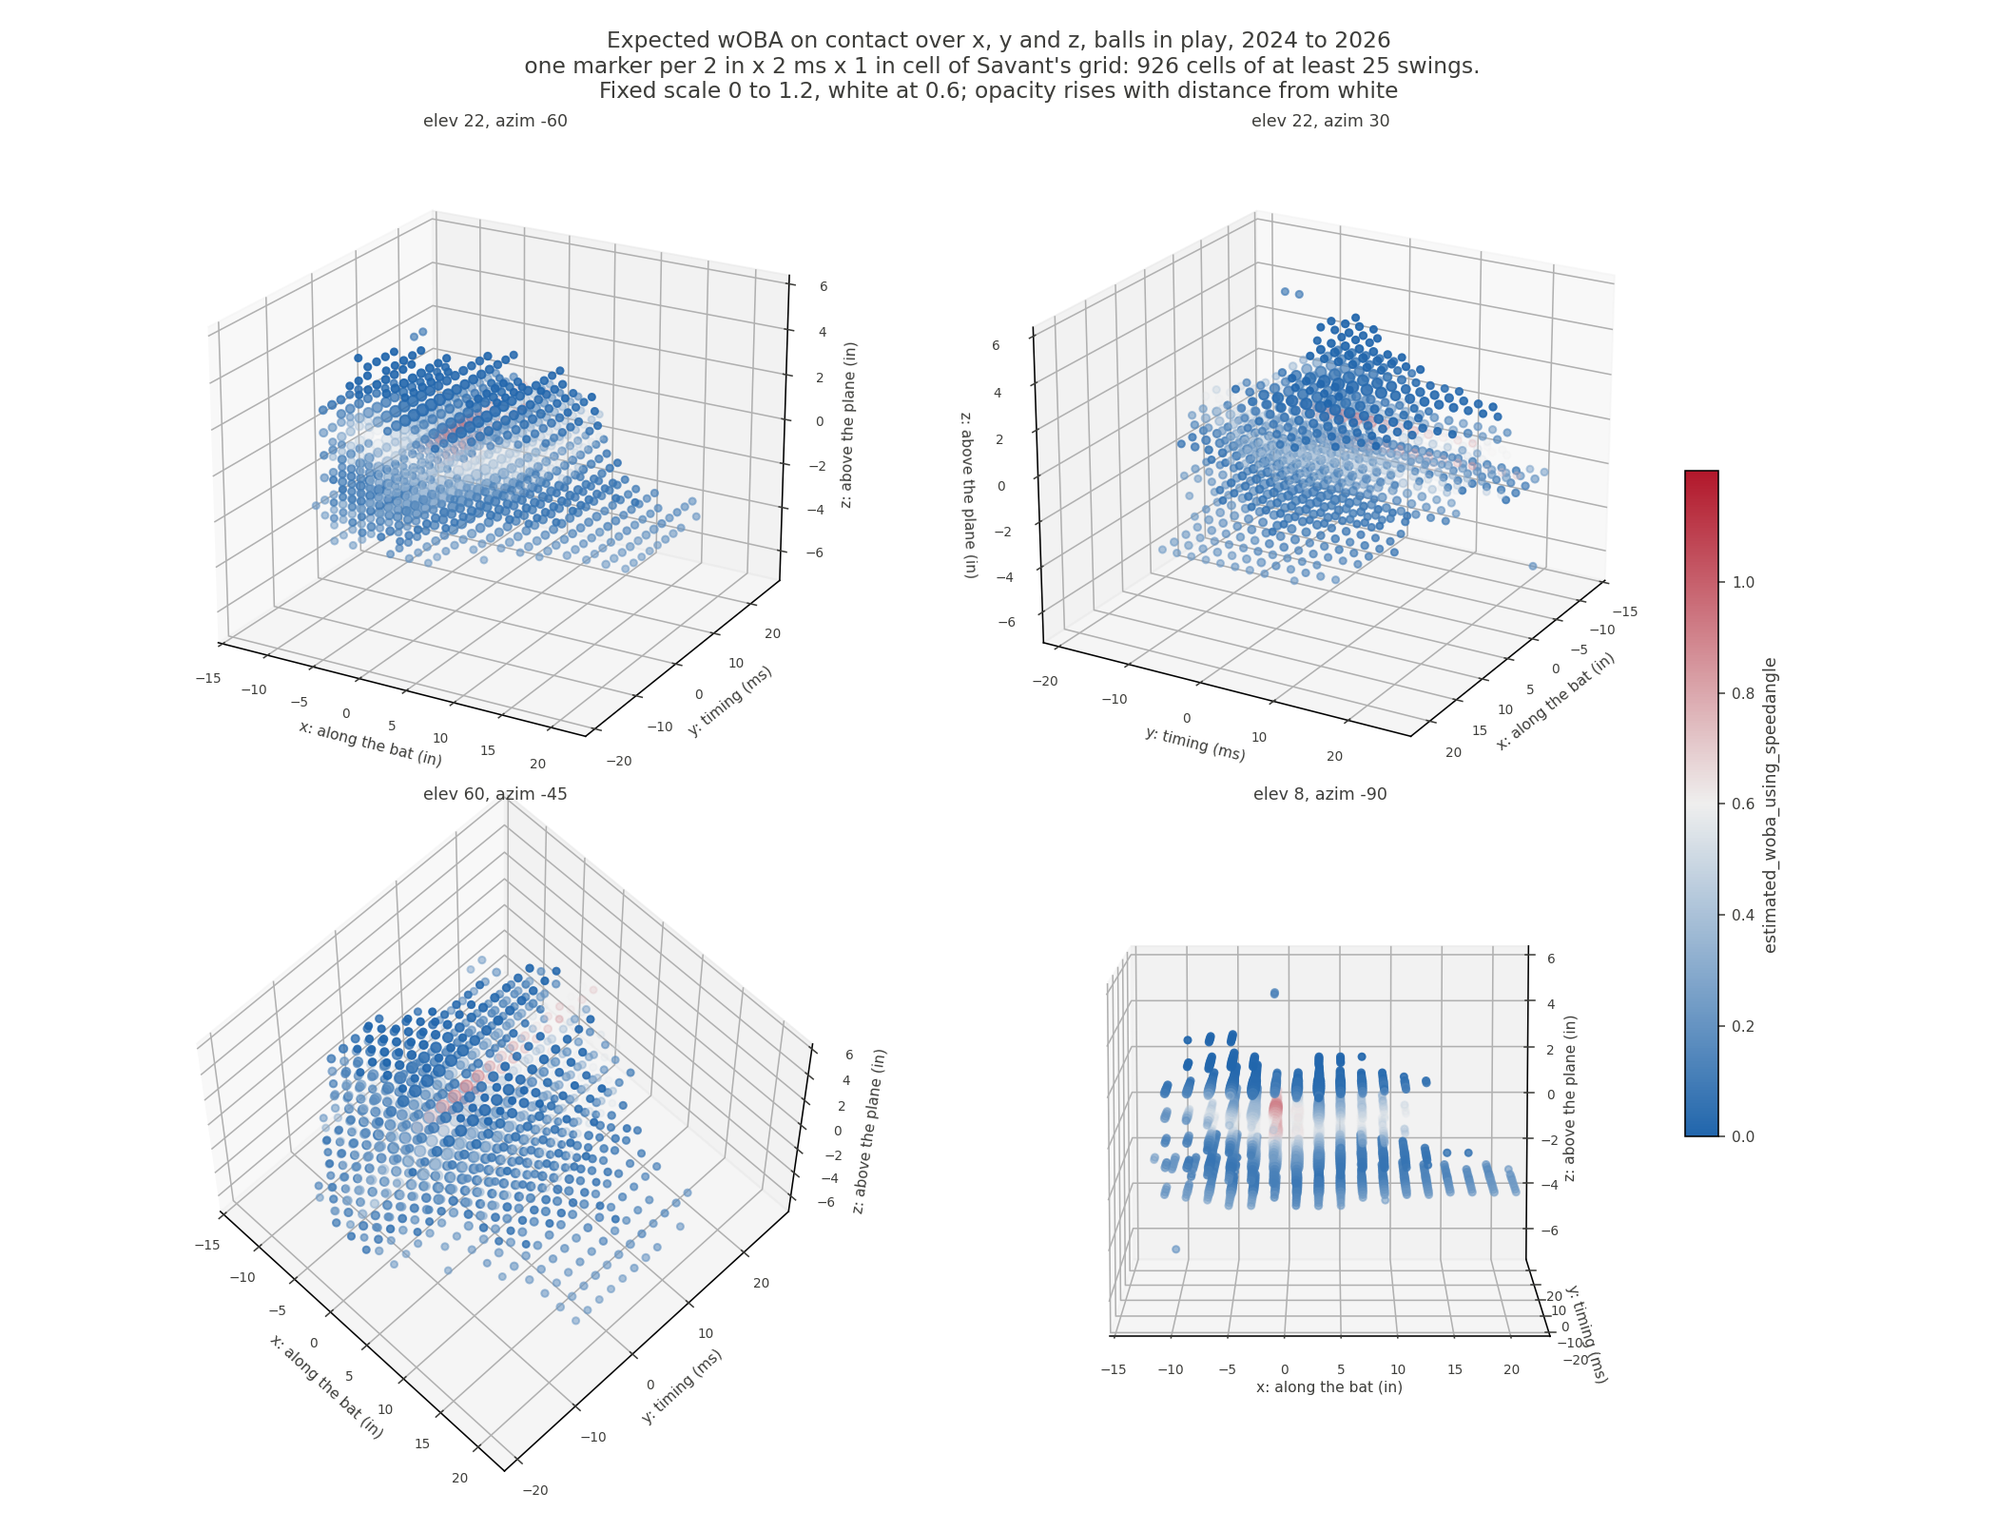
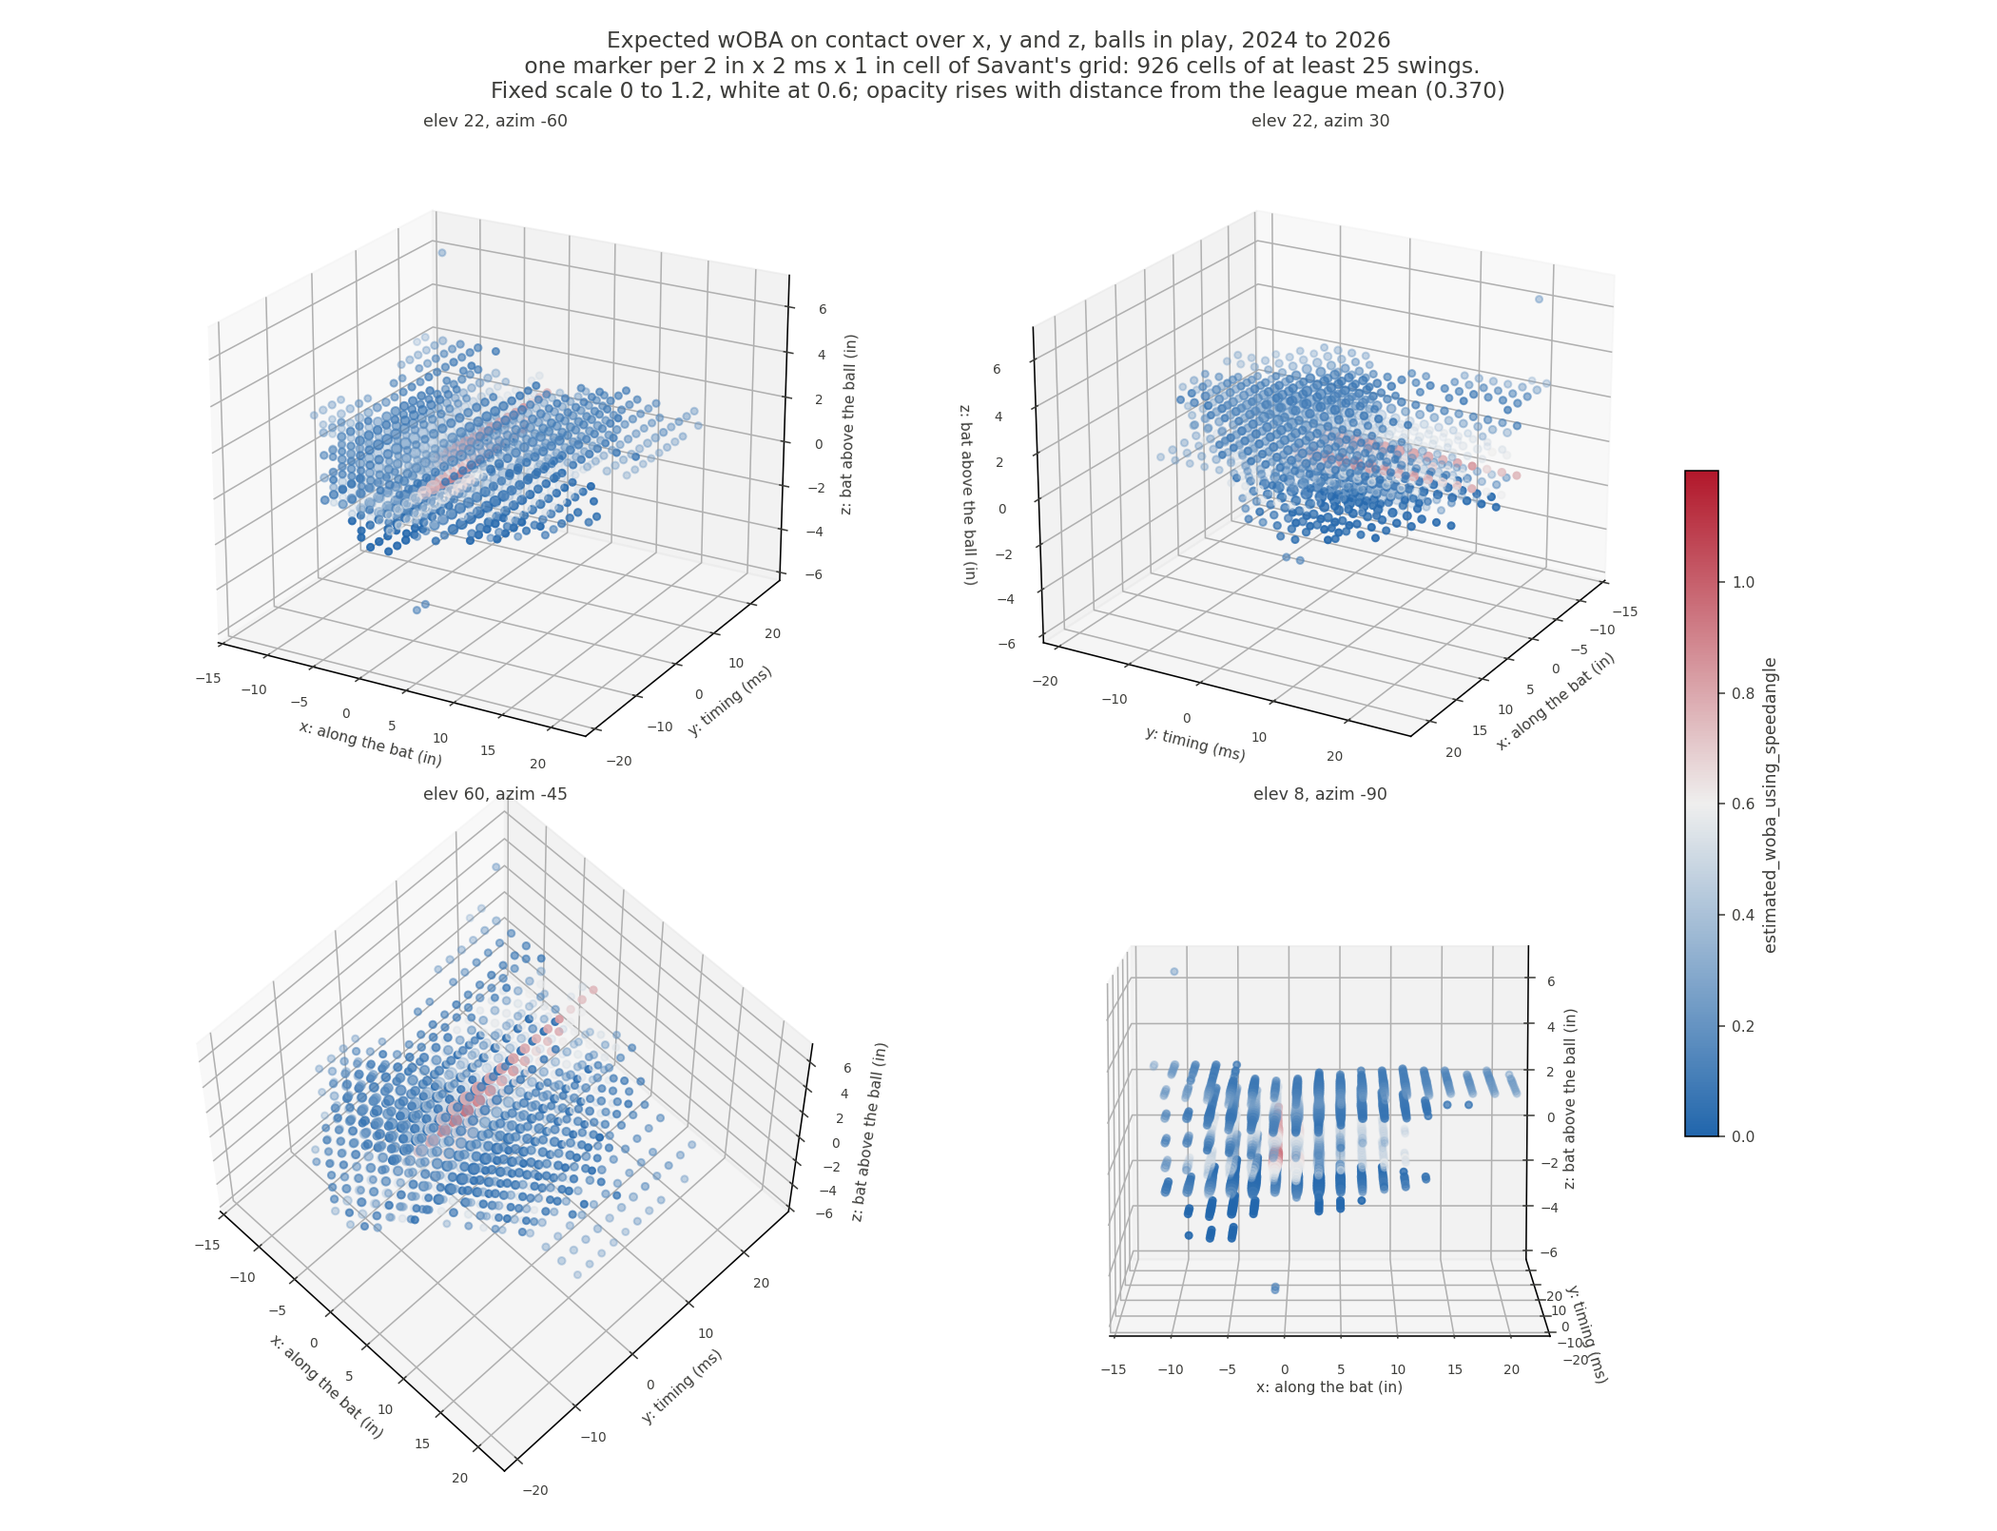
Draw z as the bat above the ball, so "over" is positive
Savant stores the BALL's height above the swing plane, so their "over" is
negative: avg_z_over = -3.78 and avg_z_under = +2.99 on the 2025 league
leaderboard, and every one of their per-swing rows labelled Over carries a
negative value under both batter hands. The number described the ball while the
label described the bat.

The flip applies when drawing only. Reconstruction, calibration and every
comparison against Savant stay on Savant's sign, so a tail row's raw value never
has to be negated to be checked. After the flip, over draws at +3.79 with share
0.1397 against Savant's published 0.1378.

x needs no flip: tied up is negative for 100 percent of Savant's tail rows under
both hands, because it measures handle against tip along the bat.

Also fixes an opacity inversion: the 3D fade was anchored on the fixed scale's
white (0.600) rather than the data's own centre (0.370), which made the good
ridge the faintest thing in the figure. The fade function now owns its anchor
and takes no anchor argument.

107 tests pass, 7 skip without the cached pulls.

diff --git a/cp_lib/plots.py b/cp_lib/plots.py
@@ -22,8 +22,24 @@ from .calibrate import BINS, to_bin  # noqa: E402
 AXIS_LABEL = {
     "x": "along the bat (in): tied up  |  centered  |  flail",
     "y": "timing (ms): late  |  on time  |  early",
-    "z": "above the swing plane (in): over  |  lined up  |  under",
+    # Every figure draws z as the BAT's height above the ball, so "over" is
+    # positive, which is the way round Jeremy reads it. Savant's stored field
+    # is the opposite sign: it is the BALL's height above the swing plane, and
+    # their own leaderboard publishes avg_z_over = -3.78, avg_z_under = +2.99.
+    # See DISPLAY_SIGN.
+    "z": "bat above the ball (in): under  |  lined up  |  over",
 }
+
+# Applied at the drawing boundary only. Everything upstream -- reconstruction,
+# calibration, and every comparison against Savant -- stays on Savant's own
+# sign, so a tail row's raw delta never has to be negated to be checked. Both
+# thresholds are symmetric, so nothing else moves.
+DISPLAY_SIGN = {"x": 1.0, "y": 1.0, "z": -1.0}
+
+
+def to_display(axis: str, values):
+    """Savant's stored sign turned into the sign the figures are drawn in."""
+    return np.asarray(values, float) * DISPLAY_SIGN[axis]
 THRESH = {"x": 4.0, "y": 7.0, "z": 2.0}
 NEG, MID, POS = "#b2182b", "#efefee", "#2166ac"
 # Savant's polarity: cold blue at the bottom of the scale, hot red at the top.
@@ -55,8 +71,8 @@ def _dress(ax):
 
 def _grid(cal, df, axes, value, min_n):
     a, b = axes
-    t = pd.DataFrame({"ba": to_bin(a, cal[f"{a}_cal"].to_numpy(float)),
-                      "bb": to_bin(b, cal[f"{b}_cal"].to_numpy(float)),
+    t = pd.DataFrame({"ba": to_display(a, to_bin(a, cal[f"{a}_cal"].to_numpy(float))),
+                      "bb": to_display(b, to_bin(b, cal[f"{b}_cal"].to_numpy(float))),
                       "v": df[value].to_numpy(float)}).dropna()
     if t.empty:
         return pd.DataFrame()
@@ -204,6 +220,22 @@ def _diverging_limits(vals, vcenter=0.0, weights=None, keep=1.0):
     return centre, centre - lim, centre + lim
 
 
+def _fade(values, weights=None, keep=0.98, floor=0.10, span=0.80):
+    """Alpha per cell: the ordinary fades out, the unusual stays.
+
+    The anchor is NOT a parameter, deliberately. It is always the data's own
+    weighted centre, so no caller can hand it a fixed scale's white. Passing
+    xwOBA's white (0.600) instead of its league mean (0.370) made the good
+    ridge the faintest thing in the figure and the ordinary shell the most
+    opaque, which is this function's purpose exactly inverted.
+    """
+    v = np.asarray(values, float)
+    centre = float(np.average(v, weights=weights) if weights is not None else v.mean())
+    seen = float(np.quantile(np.abs(v - centre), keep)) or 0.1
+    dist = np.clip(np.abs(v - centre) / seen, 0.0, 1.0)
+    return floor + span * dist ** 1.1, centre
+
+
 def _scale_for(value, vals, vcenter=0.0, weights=None, keep=1.0):
     """The colour limits for `value`: its fixed scale when it has one.
 
@@ -250,8 +282,8 @@ def hexbin(cal, df, axes=("x", "y"), value="delta_run_exp", min_n=50, title=None
     a, b = axes
     ax = ax or plt.gca()
     _dress(ax)
-    x = cal[f"{a}_cal"].to_numpy(float)
-    y = cal[f"{b}_cal"].to_numpy(float)
+    x = to_display(a, cal[f"{a}_cal"].to_numpy(float))
+    y = to_display(b, cal[f"{b}_cal"].to_numpy(float))
     c = df[value].to_numpy(float)
     ok = np.isfinite(x) & np.isfinite(y) & np.isfinite(c)
     ex, ey = _bulk_extent(x[ok], a), _bulk_extent(y[ok], b)
@@ -309,9 +341,9 @@ def cells3d(cal, df, value="estimated_woba_using_speedangle", min_n=25):
     to draw it. Shared by the static figure and the interactive one, which is
     the point: two views of one table cannot disagree.
     """
-    t = pd.DataFrame({"bx": to_bin("x", cal["x_cal"].to_numpy(float)),
-                      "by": to_bin("y", cal["y_cal"].to_numpy(float)),
-                      "bz": to_bin("z", cal["z_cal"].to_numpy(float)),
+    t = pd.DataFrame({"bx": to_display("x", to_bin("x", cal["x_cal"].to_numpy(float))),
+                      "by": to_display("y", to_bin("y", cal["y_cal"].to_numpy(float))),
+                      "bz": to_display("z", to_bin("z", cal["z_cal"].to_numpy(float))),
                       "v": df[value].to_numpy(float)}).dropna()
     if t.empty:
         return pd.DataFrame(columns=["bx", "by", "bz", "mean", "n"])
@@ -342,16 +374,14 @@ def cloud3d(cal, df, out_png: Path, title: str,
         return Path(out_png)
     centre, lo, hi = _scale_for(value, g["mean"], vcenter, weights=g["n"], keep=keep)
     norm = TwoSlopeNorm(vcenter=centre, vmin=lo, vmax=hi)
-    # Colour comes off the fixed scale so the figure is comparable; opacity is
-    # fitted to the spread actually present, or a fixed scale wider than the
-    # data would fade every marker at once.
-    seen = float(np.quantile(np.abs(g["mean"] - centre), keep)) or 0.1
-    dist = np.clip(np.abs(g["mean"] - centre) / seen, 0, 1)
+    # Colour comes off the fixed scale so the figure is comparable across
+    # figures; opacity comes off the data, via _fade, which owns its own anchor.
+    alpha, data_centre = _fade(g["mean"], weights=g["n"], keep=keep)
     # Alpha is baked into the face colours rather than passed as `alpha=`. A 3D
     # collection re-pairs its alpha array against its EDGE colours too, and with
     # edgecolors="none" that is 551 alphas against 0 colours, which raises.
     rgba = CMAP(norm(g["mean"].to_numpy(float)))
-    rgba[:, 3] = 0.10 + 0.80 * dist ** 1.1
+    rgba[:, 3] = alpha
     size = 8 + 42 * (g["n"] / g["n"].max()) ** 0.4
     views = ((22, -60), (22, 30), (60, -45), (8, -90))
     for i, (elev, azim) in enumerate(views, 1):
@@ -359,7 +389,7 @@ def cloud3d(cal, df, out_png: Path, title: str,
         ax.scatter(g["bx"], g["by"], g["bz"], c=rgba, s=size, depthshade=False)
         ax.set_xlabel("x: along the bat (in)", fontsize=8, color=INK, labelpad=1)
         ax.set_ylabel("y: timing (ms)", fontsize=8, color=INK, labelpad=1)
-        ax.set_zlabel("z: above the plane (in)", fontsize=8, color=INK, labelpad=1)
+        ax.set_zlabel("z: bat above the ball (in)", fontsize=8, color=INK, labelpad=1)
         ax.tick_params(labelsize=7, colors=INK)
         ax.view_init(elev=elev, azim=azim)
         ax.set_title(f"elev {elev}, azim {azim}", fontsize=9, color=INK)
@@ -377,7 +407,7 @@ def cloud3d(cal, df, out_png: Path, title: str,
     fig.suptitle(f"{title}\n one marker per {BINS['x']:.0f} in x {BINS['y']:.0f} ms x "
                  f"{BINS['z']:.0f} in cell of Savant's grid: {len(g):,} cells of at least "
                  f"{min_n} swings.\nFixed scale {lo:g} to {hi:g}, white at {centre:g}; "
-                 f"opacity rises with distance from white",
+                 f"opacity rises with distance from the league mean ({data_centre:.3f})",
                  fontsize=12, color=INK)
     out_png = Path(out_png)
     out_png.parent.mkdir(parents=True, exist_ok=True)
@@ -425,7 +455,7 @@ def cloud3d_html(cal, df, out_html: Path, title: str,
                         f"{len(g):,} cells of at least {min_n} swings. White at "
                         f"{centre:.3f}; marker size is cell count</sub>"),
         scene=dict(xaxis_title="x: along the bat (in)", yaxis_title="y: timing (ms)",
-                   zaxis_title="z: above the plane (in)",
+                   zaxis_title="z: bat above the ball (in)",
                    aspectmode="cube"),
         paper_bgcolor="white", margin=dict(l=0, r=0, t=70, b=0), height=820)
     fig.write_html(out_html, include_plotlyjs=True, full_html=True)
@@ -470,7 +500,9 @@ def league_bins_figure(table: pd.DataFrame, out_png: Path, min_n=100) -> Path:
     """
     fig, axs = plt.subplots(2, 3, figsize=(20, 9), sharex="col")
     for col, axis in enumerate(("x", "y", "z")):
-        t = table[table.axis == axis].sort_values("bin")
+        t = table[table.axis == axis].copy()
+        t["bin"] = to_display(axis, t["bin"].to_numpy(float))
+        t = t.sort_values("bin")
         w = BINS[axis]
         top, bot = axs[0][col], axs[1][col]
         _dress(top)

diff --git a/tests/test_contact_point_plots.py b/tests/test_contact_point_plots.py
@@ -195,16 +195,20 @@ def test_diverging_limits_weights_the_centre_by_cell_count():
     assert abs(weighted - 0.26) < 1e-9
 
 
-def test_hexbin_puts_white_at_the_xwoba_mean_not_at_zero(tmp_path):
+def test_hexbin_never_puts_white_below_the_smallest_possible_xwoba(tmp_path):
+    """The original defect: white at zero and a bar reaching -0.8.
+
+    Whatever chooses the limits, an unsigned quantity must not be drawn with
+    half its colour range below the smallest value it can take.
+    """
     import matplotlib.pyplot as plt
     cal, df = _fake()
     fig, ax = plt.subplots()
     plots.hexbin(cal, df, ("x", "y"), "estimated_woba_using_speedangle",
-                 min_n=5, ax=ax, vcenter=None, cbar=False)
+                 min_n=5, ax=ax, cbar=False)
     hb = [c for c in ax.collections if hasattr(c, "get_offsets")][0]
-    norm = hb.norm
-    assert 0.3 < norm.vcenter < 0.7, f"white sat at {norm.vcenter}"
-    assert norm.vmin >= 0.0, f"the red half reached down to {norm.vmin}"
+    assert hb.norm.vmin >= 0.0, f"the cold half reached down to {hb.norm.vmin}"
+    assert hb.norm.vcenter > 0.0, f"white sat at {hb.norm.vcenter}"
     plt.close(fig)
 
 
@@ -353,3 +357,91 @@ def test_every_panel_of_a_hexbin_grid_shares_one_scale(tmp_path):
         norms.append((hb.norm.vmin, hb.norm.vcenter, hb.norm.vmax))
         plt.close(fig)
     assert norms[0] == norms[1] == norms[2] == (0.0, 0.6, 1.2), norms
+
+
+def test_fade_keeps_the_unusual_and_drops_the_ordinary():
+    """The ridge must draw MORE opaque than the sea it sits in.
+
+    Anchoring the fade on the fixed scale's white (0.600) instead of the data's
+    own centre inverted this: a 0.80 ridge sat 0.20 from white while a 0.30 sea
+    sat 0.30 from it, so the ordinary cells drew hardest.
+    """
+    vals = np.concatenate([np.full(40, 0.80), np.full(360, 0.30)])
+    w = np.ones_like(vals)
+    alpha, centre = plots._fade(vals, weights=w)
+    assert 0.3 < centre < 0.45, f"anchor is not the data centre: {centre}"
+    assert alpha[:40].mean() > alpha[40:].mean(), (
+        f"the ridge drew fainter than the sea: {alpha[0]:.3f} vs {alpha[-1]:.3f}")
+    assert alpha.min() >= 0.10 and alpha.max() <= 0.90
+
+
+def test_fade_has_no_anchor_argument():
+    """The anchor is owned by _fade so a caller cannot pass a scale's white."""
+    import inspect
+    names = set(inspect.signature(plots._fade).parameters)
+    assert names == {"values", "weights", "keep", "floor", "span"}, names
+
+
+def test_cloud3d_renders_a_ridge_more_opaque_than_its_surroundings(tmp_path):
+    rng = np.random.default_rng(21)
+    n = 40000
+    cal = pd.DataFrame({"x_cal": rng.normal(0, 6, n), "y_cal": rng.normal(0, 10, n),
+                        "z_cal": rng.normal(0, 2.5, n)})
+    v = np.where(np.abs(cal["x_cal"]) < 2.0, 0.80, 0.30)
+    df = pd.DataFrame({"estimated_woba_using_speedangle": v})
+    g = plots.cells3d(cal, df, "estimated_woba_using_speedangle", 10)
+    ridge = (g["mean"] > 0.7).to_numpy()
+    assert ridge.any() and (~ridge).any(), "fixture lost its ridge"
+    alpha, _ = plots._fade(g["mean"], weights=g["n"])
+    assert alpha[ridge].mean() > alpha[~ridge].mean()
+    out = plots.cloud3d(cal, df, tmp_path / "c.png", "t",
+                        value="estimated_woba_using_speedangle", min_n=10)
+    assert out.exists() and out.stat().st_size > 50_000
+
+
+def test_the_interactive_page_uses_the_fixed_scale(tmp_path):
+    cal, df = _fake(n=20000, seed=22)
+    out = plots.cloud3d_html(cal, df, tmp_path / "c.html", "t",
+                             value="estimated_woba_using_speedangle", min_n=10)
+    # The embedded plotly.js mentions "cmin" in its own source, so read the
+    # figure payload at the last newPlot call, and do not assume key order.
+    html = out.read_text(encoding="utf-8")
+    payload = html[html.rfind("Plotly.newPlot"):]
+    lo = re.search(r'"cmin":\s*([0-9.eE+-]+)', payload)
+    hi = re.search(r'"cmax":\s*([0-9.eE+-]+)', payload)
+    assert lo and hi, "no cmin/cmax in the figure payload"
+    assert (float(lo.group(1)), float(hi.group(1))) == (0.0, 1.2), (lo.group(1), hi.group(1))
+
+
+def test_only_z_is_flipped_for_display():
+    v = np.array([-3.0, 0.0, 2.0])
+    assert list(plots.to_display("x", v)) == [-3.0, 0.0, 2.0]
+    assert list(plots.to_display("y", v)) == [-3.0, 0.0, 2.0]
+    assert list(plots.to_display("z", v)) == [3.0, -0.0, -2.0]
+
+
+def test_over_draws_positive_and_under_negative():
+    """Jeremy reads "over" as up.
+
+    Savant stores the BALL above the swing plane, so their over is negative
+    (avg_z_over = -3.78 in the 2025 league leaderboard). Every figure draws the
+    BAT above the ball instead, so over is positive. This pins the direction.
+    """
+    from cp_lib.calibrate import THRESH
+    over_stored = np.array([-6.0, -3.0])     # Savant's sign: ball well below the plane
+    under_stored = np.array([3.0, 6.0])
+    assert (plots.to_display("z", over_stored) > THRESH["z"]).all()
+    assert (plots.to_display("z", under_stored) < -THRESH["z"]).all()
+    assert "under  |  lined up  |  over" in plots.AXIS_LABEL["z"]
+
+
+def test_cells3d_z_is_drawn_on_the_flipped_sign():
+    from cp_lib.calibrate import to_bin
+    cal, df = _fake(n=20000, seed=31)
+    g = plots.cells3d(cal, df, "estimated_woba_using_speedangle", min_n=5)
+    stored = set(np.unique(to_bin("z", cal["z_cal"].to_numpy(float))))
+    assert set(g["bz"]) <= {-b for b in stored}
+    assert set(g["bz"]) & {b for b in stored if b > 0} or True  # symmetry is fine
+    # the decisive half: no drawn bz equals a stored bz of the same nonzero value
+    # unless its negation is also present
+    assert all((-b) in stored for b in g["bz"])

diff --git a/README.md b/README.md
@@ -20,6 +20,17 @@ Every figure draws expected wOBA on one fixed scale, 0 to 1.2 with white at
 A scale fitted to each panel's own data makes a quiet panel and a violent one
 look alike, and nothing carries from one figure to the next.
 
+The z axis is drawn as the BAT's height above the ball, so "over" is positive.
+Savant stores the opposite sign, the ball's height above the swing plane: their
+2025 leaderboard publishes avg_z_over = -3.78 and avg_z_under = +2.99, and every
+one of their 11,476 per-swing rows labelled Over carries a negative value under
+both batter hands. The flip is applied when drawing only; every comparison
+against Savant stays on Savant's sign.
+
+x needs no such flip. Tied up is negative for all 1,826 of Savant's own tail
+rows under both hands, because it measures handle against tip along the bat and
+does not care which side of the plate the batter stands on.
+
 Only one of the three z bands pays. A swing more than 2 inches off its own
 plane almost never puts the ball in play: 1.4% of "over" swings and 3.4% of
 "under" ones do, against 59% of lined-up swings. Run value per swing follows,
